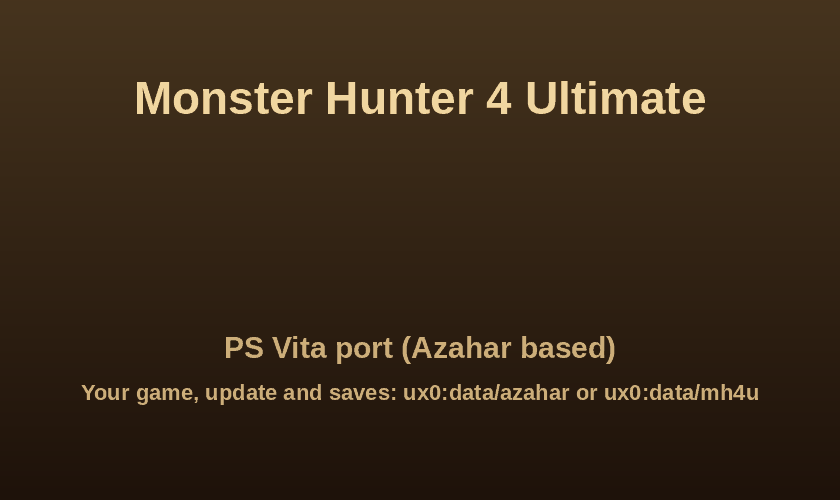
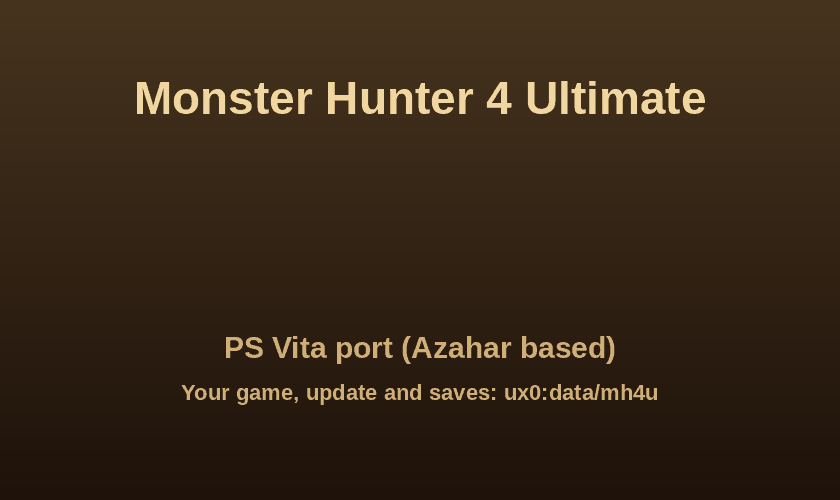
vita: release builds use ux0:data/mh4u only; Azahar's folder is a diagnostic fallback
The fallback to ux0:data/azahar for the ROM and the game's data (sdmc, nand,
sysdata) is compiled only with VITA_DIAGNOSTICS, for testing without copying.
A release keeps everything - ROM, update, saves, system files, mods, cheats - in
ux0:data/mh4u. The LiveArea hint names that folder alone.

Claude-Session: https://claude.ai/code/session_019ccWh29tBMNkNwEmdVev9z

Changed region(s): [[0.0929, 0.75, 0.8976, 0.81]]

diff --git a/src/citra_vita/citra_vita_main.cpp b/src/citra_vita/citra_vita_main.cpp
@@ -213,9 +213,11 @@ void SetupPaths() {
     // Must happen before anything asks for a path: the first request bootstraps the whole table
     // from whatever the platform default is, and on this console there is no such thing.
     FileUtil::SetUserPath(UserDirectory);
-    // The game's own data - the update, saves and extdata (sdmc), the system files (nand,
-    // sysdata) - is used from Azahar's folder in place unless the port has its own copy. The
-    // port's files (flags, logs, cheats, mods) always live in ux0:data/mh4u.
+#ifdef VITA_DIAGNOSTICS
+    // Diagnostic builds only: the game's own data - the update, saves and extdata (sdmc), the
+    // system files (nand, sysdata) - is used from Azahar's folder in place unless the port has
+    // its own copy, so testing needs no copy. A release uses ux0:data/mh4u alone; the port's
+    // files (flags, logs, cheats, mods) always live there.
     const std::pair<FileUtil::UserPath, const char*> shared[] = {
         {FileUtil::UserPath::SDMCDir, "sdmc"},
         {FileUtil::UserPath::NANDDir, "nand"},
@@ -228,6 +230,7 @@ void SetupPaths() {
             FileUtil::UpdateUserPath(path, azahar);
         }
     }
+#endif
 }
 
 /// Names the exception behind an abort. std::terminate goes to newlib's abort(), which raises
@@ -328,8 +331,8 @@ void ShutdownSystem(Core::System& system) {
 
 // ---- The port's own data folder (ux0:data/mh4u) and how it is first filled -------------------
 
-/// The game image: the first .3ds/.cci/.cxi/.app in ux0:data/mh4u/roms, else one in Azahar's
-/// roms folder whose name says Monster Hunter 4.
+/// The game image: the first .3ds/.cci/.cxi/.app in ux0:data/mh4u/roms; diagnostic builds also
+/// take one in Azahar's roms folder whose name says Monster Hunter 4.
 std::string FindRom() {
     const auto search = [](const char* folder, bool only_mh4u) {
         std::string found;
@@ -358,9 +361,11 @@ std::string FindRom() {
         return found;
     };
     std::string rom = search(VITA_DATA_DIR "/roms", false);
+#ifdef VITA_DIAGNOSTICS
     if (rom.empty()) {
         rom = search(VITA_AZAHAR_DIR "/roms", true);
     }
+#endif
     return rom;
 }
 
@@ -863,8 +868,8 @@ int EmulatorMain() {
         const std::string rom = FindRom();
         if (rom.empty()) {
             ui.SetStatusMessage("Monster Hunter 4 Ultimate was not found.\n\nPut your own decrypted "
-                                "game (.3ds, .cci or .cxi) in " VITA_DATA_DIR "/roms/ or "
-                                VITA_AZAHAR_DIR "/roms/ and start again.\n\nPress START to exit.");
+                                "game (.3ds, .cci or .cxi) in " VITA_DATA_DIR "/roms/ and start "
+                                "again.\n\nPress START to exit.");
             while (!window.IsQuitRequested()) {
                 window.PollEvents();
                 ui.Update();

diff --git a/src/common/vita_data_dir.h b/src/common/vita_data_dir.h
@@ -5,7 +5,8 @@
 #pragma once
 
 /// The port's own data folder on the Vita: the ROM, the update and saves (sdmc), mods, cheats,
-/// diagnostics. Separate from Azahar's ux0:data/azahar, which a first boot copies from.
+/// diagnostics. A release uses nothing else; diagnostic builds fall back to Azahar's folder for
+/// the ROM and the game's data when the port has no copy of its own.
 #define VITA_DATA_DIR "ux0:data/mh4u"
-/// Azahar's folder, read once to migrate from.
+/// Azahar's folder (diagnostic builds' fallback).
 #define VITA_AZAHAR_DIR "ux0:data/azahar"
